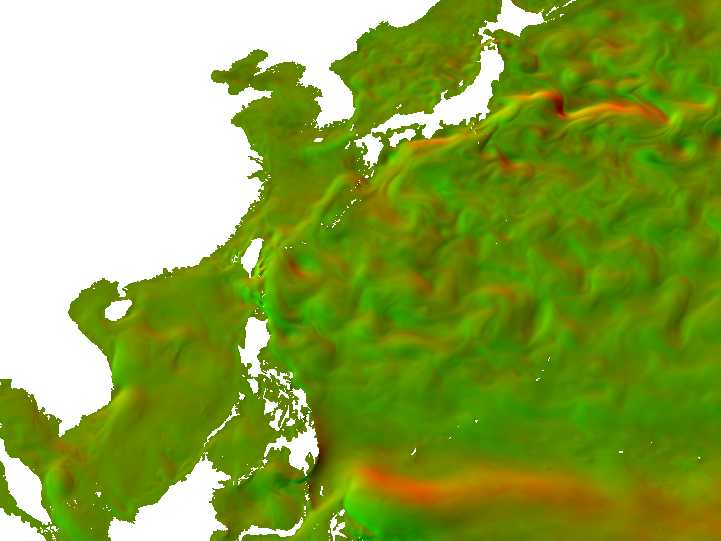
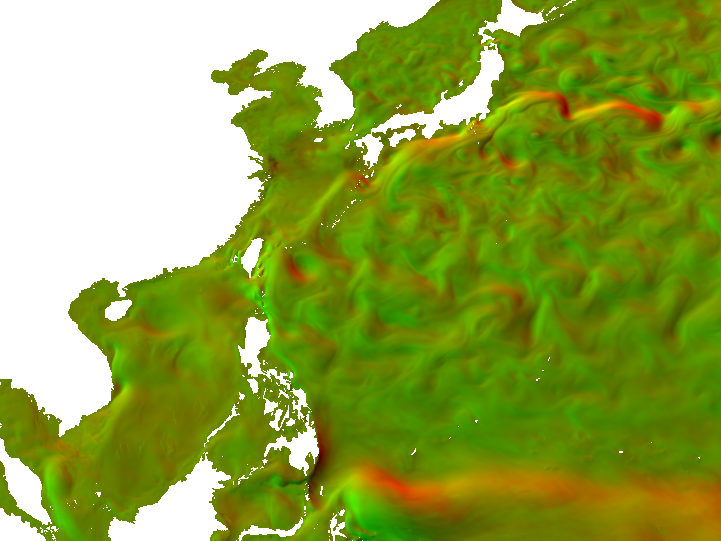
feat(climate): GC-2 前端遞送 — 週期性 re-pull + PNG cache-busting
- scripts/deploy/refresh-climate.sh：每 6h re-sync deploy-assets/climate/ → /data/climate/
- entrypoint.sh 背景迴圈（CLIMATE_REFRESH_SEC 預設 21600s）+ Dockerfile COPY
- wind/currents/dust PNG 帶 ?v=valid_at（先讀 JSON meta 再載圖）破瀏覽器快取
- public/climate/ 同步最新實況（烤圖 collector f000 選檔）

烤圖排程化在 data-collectors PR #26；本 commit 讓 live 前端免重啟就追上 S3 每日新圖。

diff --git a/src/map/climateParticleLineLayer.ts b/src/map/climateParticleLineLayer.ts
@@ -183,16 +183,16 @@ function createProgram(gl: WebGL2RenderingContext): WebGLProgram {
 }
 
 export async function loadClimateRaster(pngUrl: string, metaUrl: string): Promise<ClimateRasterData> {
-  const [meta, image] = await Promise.all([
-    fetchJson<ClimateMeta>(metaUrl),
-    new Promise<HTMLImageElement>((resolve, reject) => {
-      const img = new Image();
-      img.crossOrigin = "anonymous";
-      img.onload = () => resolve(img);
-      img.onerror = () => reject(new Error(`failed to load image: ${resolvePublicAssetUrl(pngUrl)}`));
-      img.src = resolvePublicAssetUrl(pngUrl);
-    }),
-  ]);
+  // 先讀 meta 拿 valid_at，PNG 帶 ?v= 破快取（S3 每日重烤 → 前端追得上）
+  const meta = await fetchJson<ClimateMeta>(metaUrl);
+  const resolved = resolvePublicAssetUrl(pngUrl) + (meta.valid_at ? `?v=${encodeURIComponent(meta.valid_at)}` : "");
+  const image = await new Promise<HTMLImageElement>((resolve, reject) => {
+    const img = new Image();
+    img.crossOrigin = "anonymous";
+    img.onload = () => resolve(img);
+    img.onerror = () => reject(new Error(`failed to load image: ${resolved}`));
+    img.src = resolved;
+  });
 
   const canvas = document.createElement("canvas");
   canvas.width = meta.width;

diff --git a/src/hooks/useClimateCanvasParticleLayer.ts b/src/hooks/useClimateCanvasParticleLayer.ts
@@ -23,6 +23,7 @@ interface ClimateMeta {
   v_min: number;
   v_max: number;
   bbox: [number, number, number, number];
+  valid_at?: string;
 }
 
 interface Particle {
@@ -360,13 +361,12 @@ export function useClimateCanvasParticleLayer(
       if (!map || cancelled) return;
       if (map.getLayer(o.layerId) && map.getSource(sourceId)) return;
 
-      const [meta, image] = await Promise.all([
-        fetch(o.metaUrl).then((r) => {
-          if (!r.ok) throw new Error(`${o.metaUrl} ${r.status}`);
-          return r.json() as Promise<ClimateMeta>;
-        }),
-        loadImage(o.pngUrl),
-      ]);
+      // 先讀 meta 拿 valid_at，PNG 帶 ?v= 破快取（S3 每日重烤 → 前端追得上，見 climateFieldSampler 同款）
+      const meta = await fetch(o.metaUrl, { cache: "no-cache" }).then((r) => {
+        if (!r.ok) throw new Error(`${o.metaUrl} ${r.status}`);
+        return r.json() as Promise<ClimateMeta>;
+      });
+      const image = await loadImage(o.pngUrl + (meta.valid_at ? `?v=${encodeURIComponent(meta.valid_at)}` : ""));
       if (cancelled || !map) return;
 
       const animator = new ClimateCanvasParticleAnimator({

diff --git a/src/hooks/useDustForecastLayer.ts b/src/hooks/useDustForecastLayer.ts
@@ -40,13 +40,15 @@ export function useDustForecastLayer(
       // 已存在 → 不重複加
       if (map.getLayer(LAYER_ID)) return;
       try {
-        const meta: DustMeta = await fetch("./climate/dust_latest.json").then((r) => r.json());
+        const meta: DustMeta = await fetch("./climate/dust_latest.json", { cache: "no-cache" }).then((r) => r.json());
         if (cancelled) return;
         const [lonMin, latMin, lonMax, latMax] = meta.bbox;
+        // valid_at 帶進 PNG URL 破快取（S3 每日重烤 → 前端追得上）
+        const pngUrl = "./climate/dust_latest.png" + (meta.valid_at ? `?v=${encodeURIComponent(meta.valid_at)}` : "");
         if (!map.getSource(SOURCE_ID)) {
           map.addSource(SOURCE_ID, {
             type: "image",
-            url: "./climate/dust_latest.png",
+            url: pngUrl,
             coordinates: [
               [lonMin, latMax], // top-left
               [lonMax, latMax], // top-right

diff --git a/docs/features/global-climate/backlog.md b/docs/features/global-climate/backlog.md
@@ -5,7 +5,7 @@
 ## Phase 0 — 資料活水
 
 - [x] **GC-1** Zeabur 開啟 GFS/CMEMS/CAMS collector — 環境變數已設 + data-collectors PR #24 補依賴（requirements.txt + Dockerfile eccodes），2026-07-02 merge
-- [ ] **GC-2** `extract_climate_uv.py` 烤圖排程化（建議搬進 data-collectors 當 post-collect step）+ 前端 `_latest` cache-busting（先讀 JSON 的 valid_at 再帶 `?v=`）
+- [x] **GC-2** 烤圖排程化：data-collectors 新增 `ClimateBakeCollector`（每 6h，讀 f000 實況場，取代手動 extract_climate_uv.py）→ deploy-assets/climate/。前端遞送：entrypoint 背景迴圈每 6h re-sync climate（`refresh-climate.sh`）+ PNG 帶 `?v=valid_at` 破快取。順帶修「風場是 +5 天預報」→ 改當下實況。(data-collectors PR #26 + mini-taiwan-pulse feat/global-climate-ux)
 - [ ] **GC-2b** 沙塵改烤「數值通道」texture（現為預烤色階，數值不可逆 → popup 讀值做不到）
 - [x] **GC-3** 文件補齊：本 feature 資料夾 + App.tsx 過時 stub 註解修正 + BACKLOG 條目
 

diff --git a/docs/features/global-climate/changelog.md b/docs/features/global-climate/changelog.md
@@ -9,6 +9,12 @@
 - feature 資料夾建立（本夾）
 - PR #：（待補）squash hash：（待補）
 
+## 2026-07-02 — GC-2 烤圖排程化 + 遞送
+
+- data-collectors PR #26：`ClimateBakeCollector`（每 6h）自動烤 texture 上 deploy-assets/climate/，取代手動 extract_climate_uv.py；選檔改 f000 實況（修「風場顯示 +5 天預報」）
+- 前端遞送（feat/global-climate-ux）：`refresh-climate.sh` + entrypoint 背景迴圈每 6h re-sync climate（免前端重啟）；wind/currents/dust PNG 帶 `?v=valid_at` 破瀏覽器快取
+- public/climate/ 同步為最新實況（wind 7/2 00Z / currents 7/4 / dust 7/1）
+
 ## 2026-07-02 — data-collectors PR #24
 
 - 雲端缺依賴修正（xarray/netCDF4/cfgrib/eccodes/cdsapi/copernicusmarine）→ GFS/CMEMS/CAMS 三支 collector 上 Zeabur 可跑
